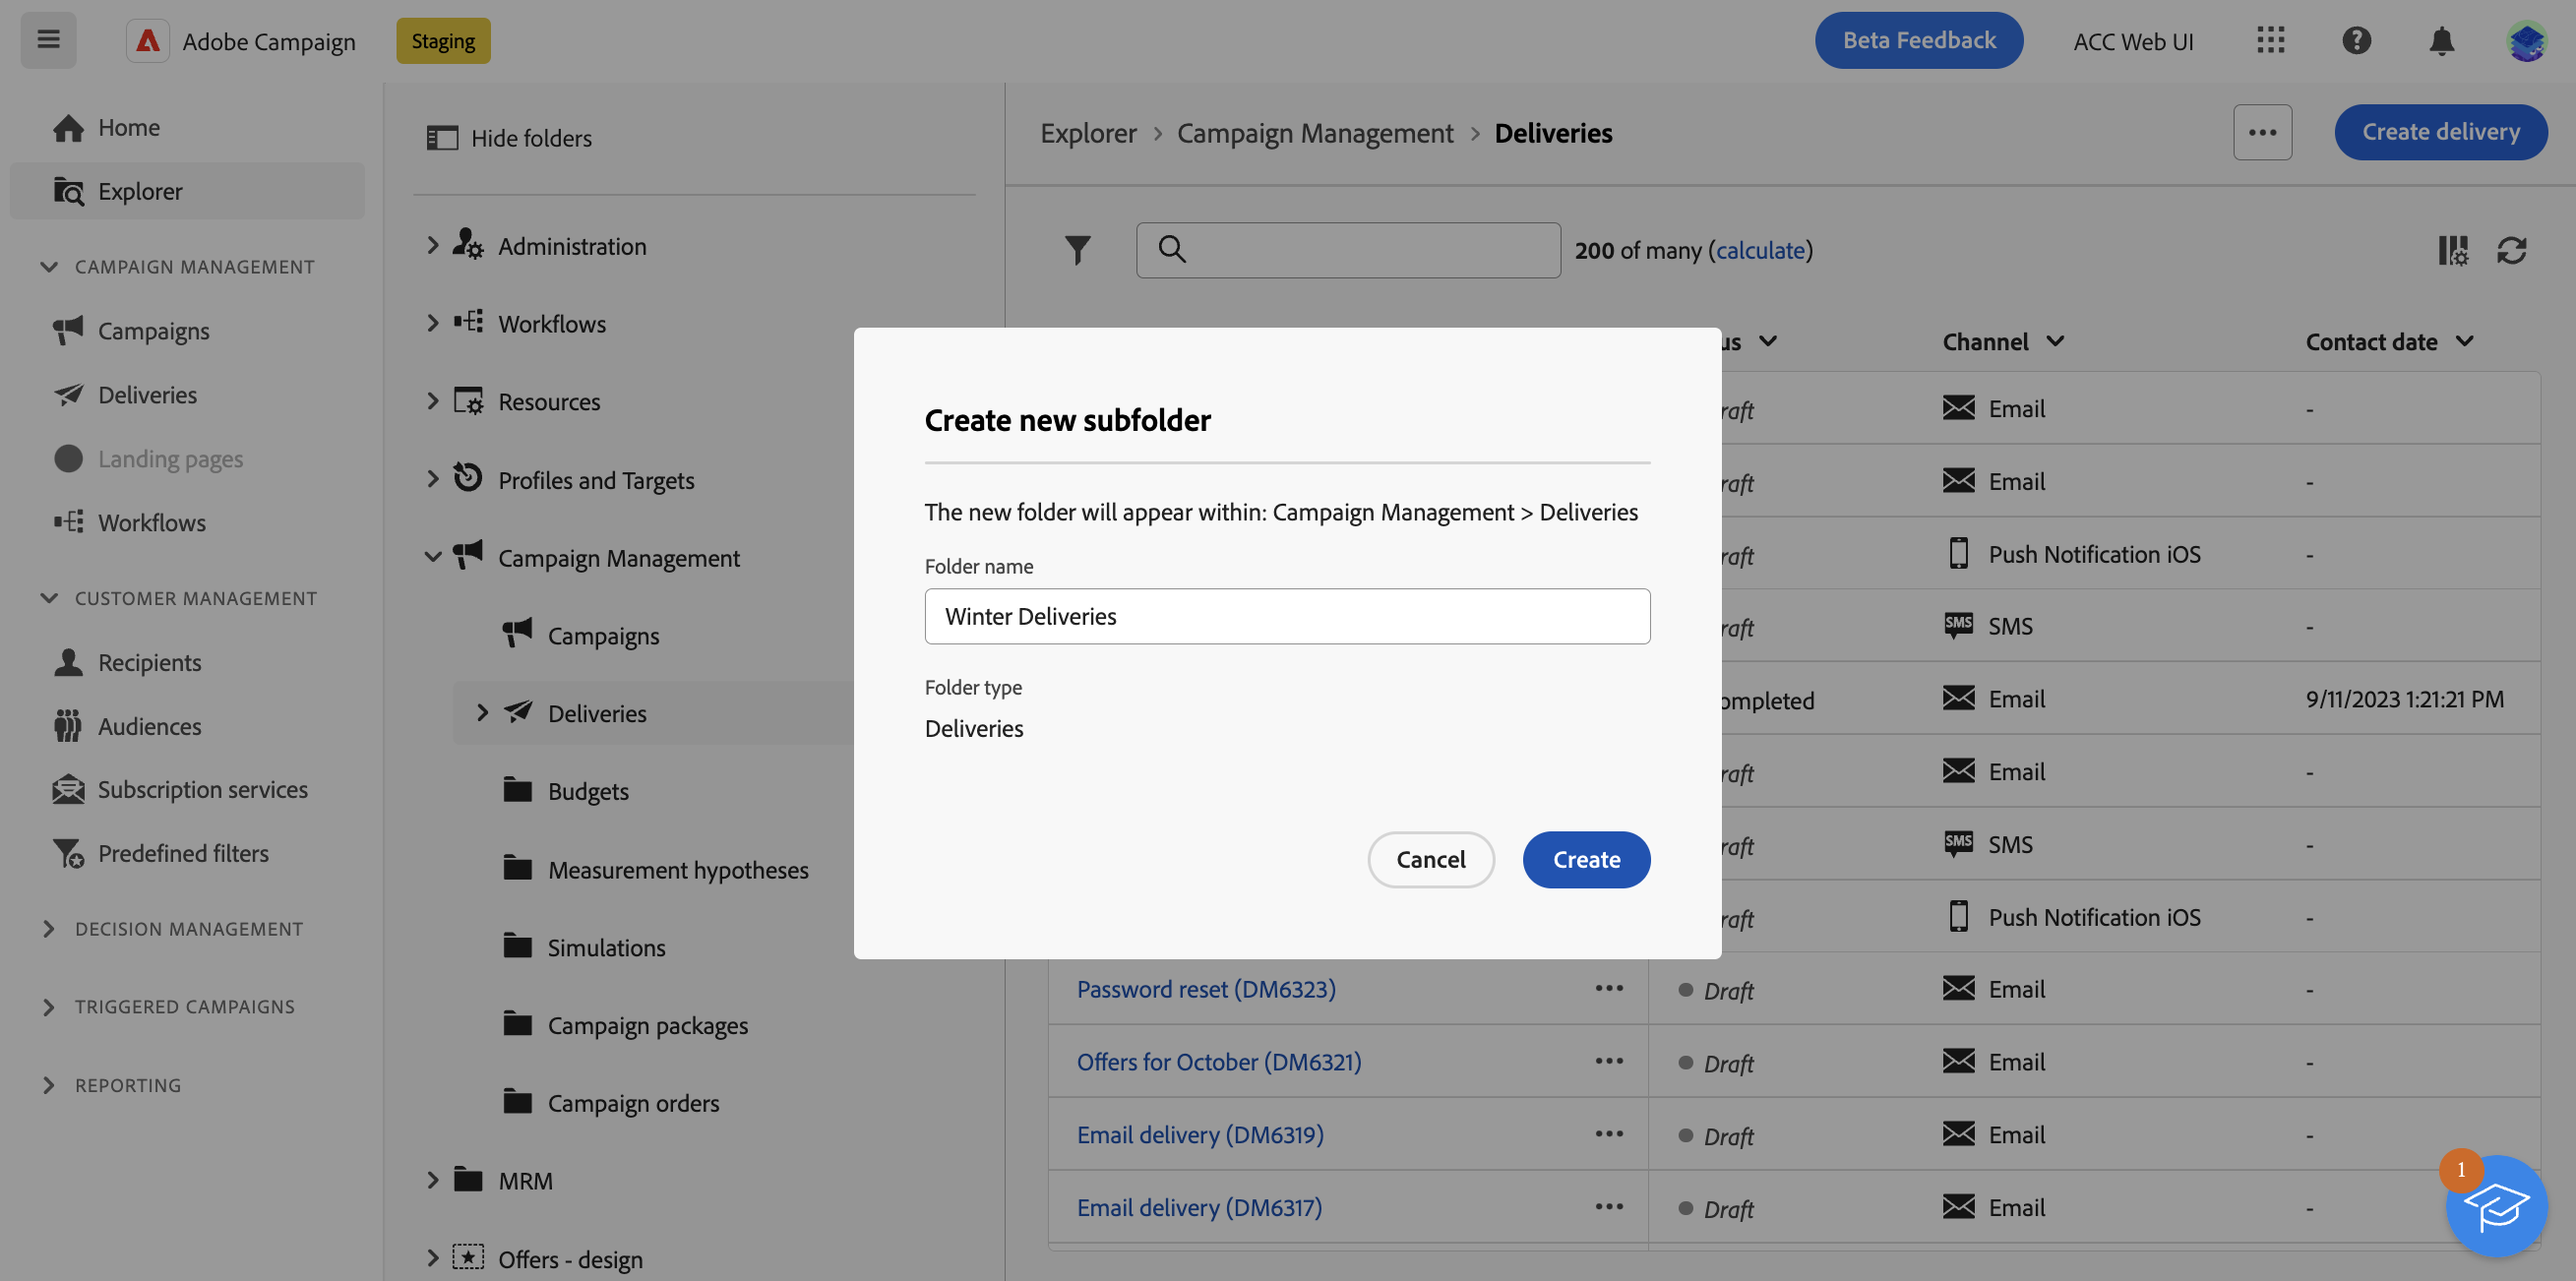
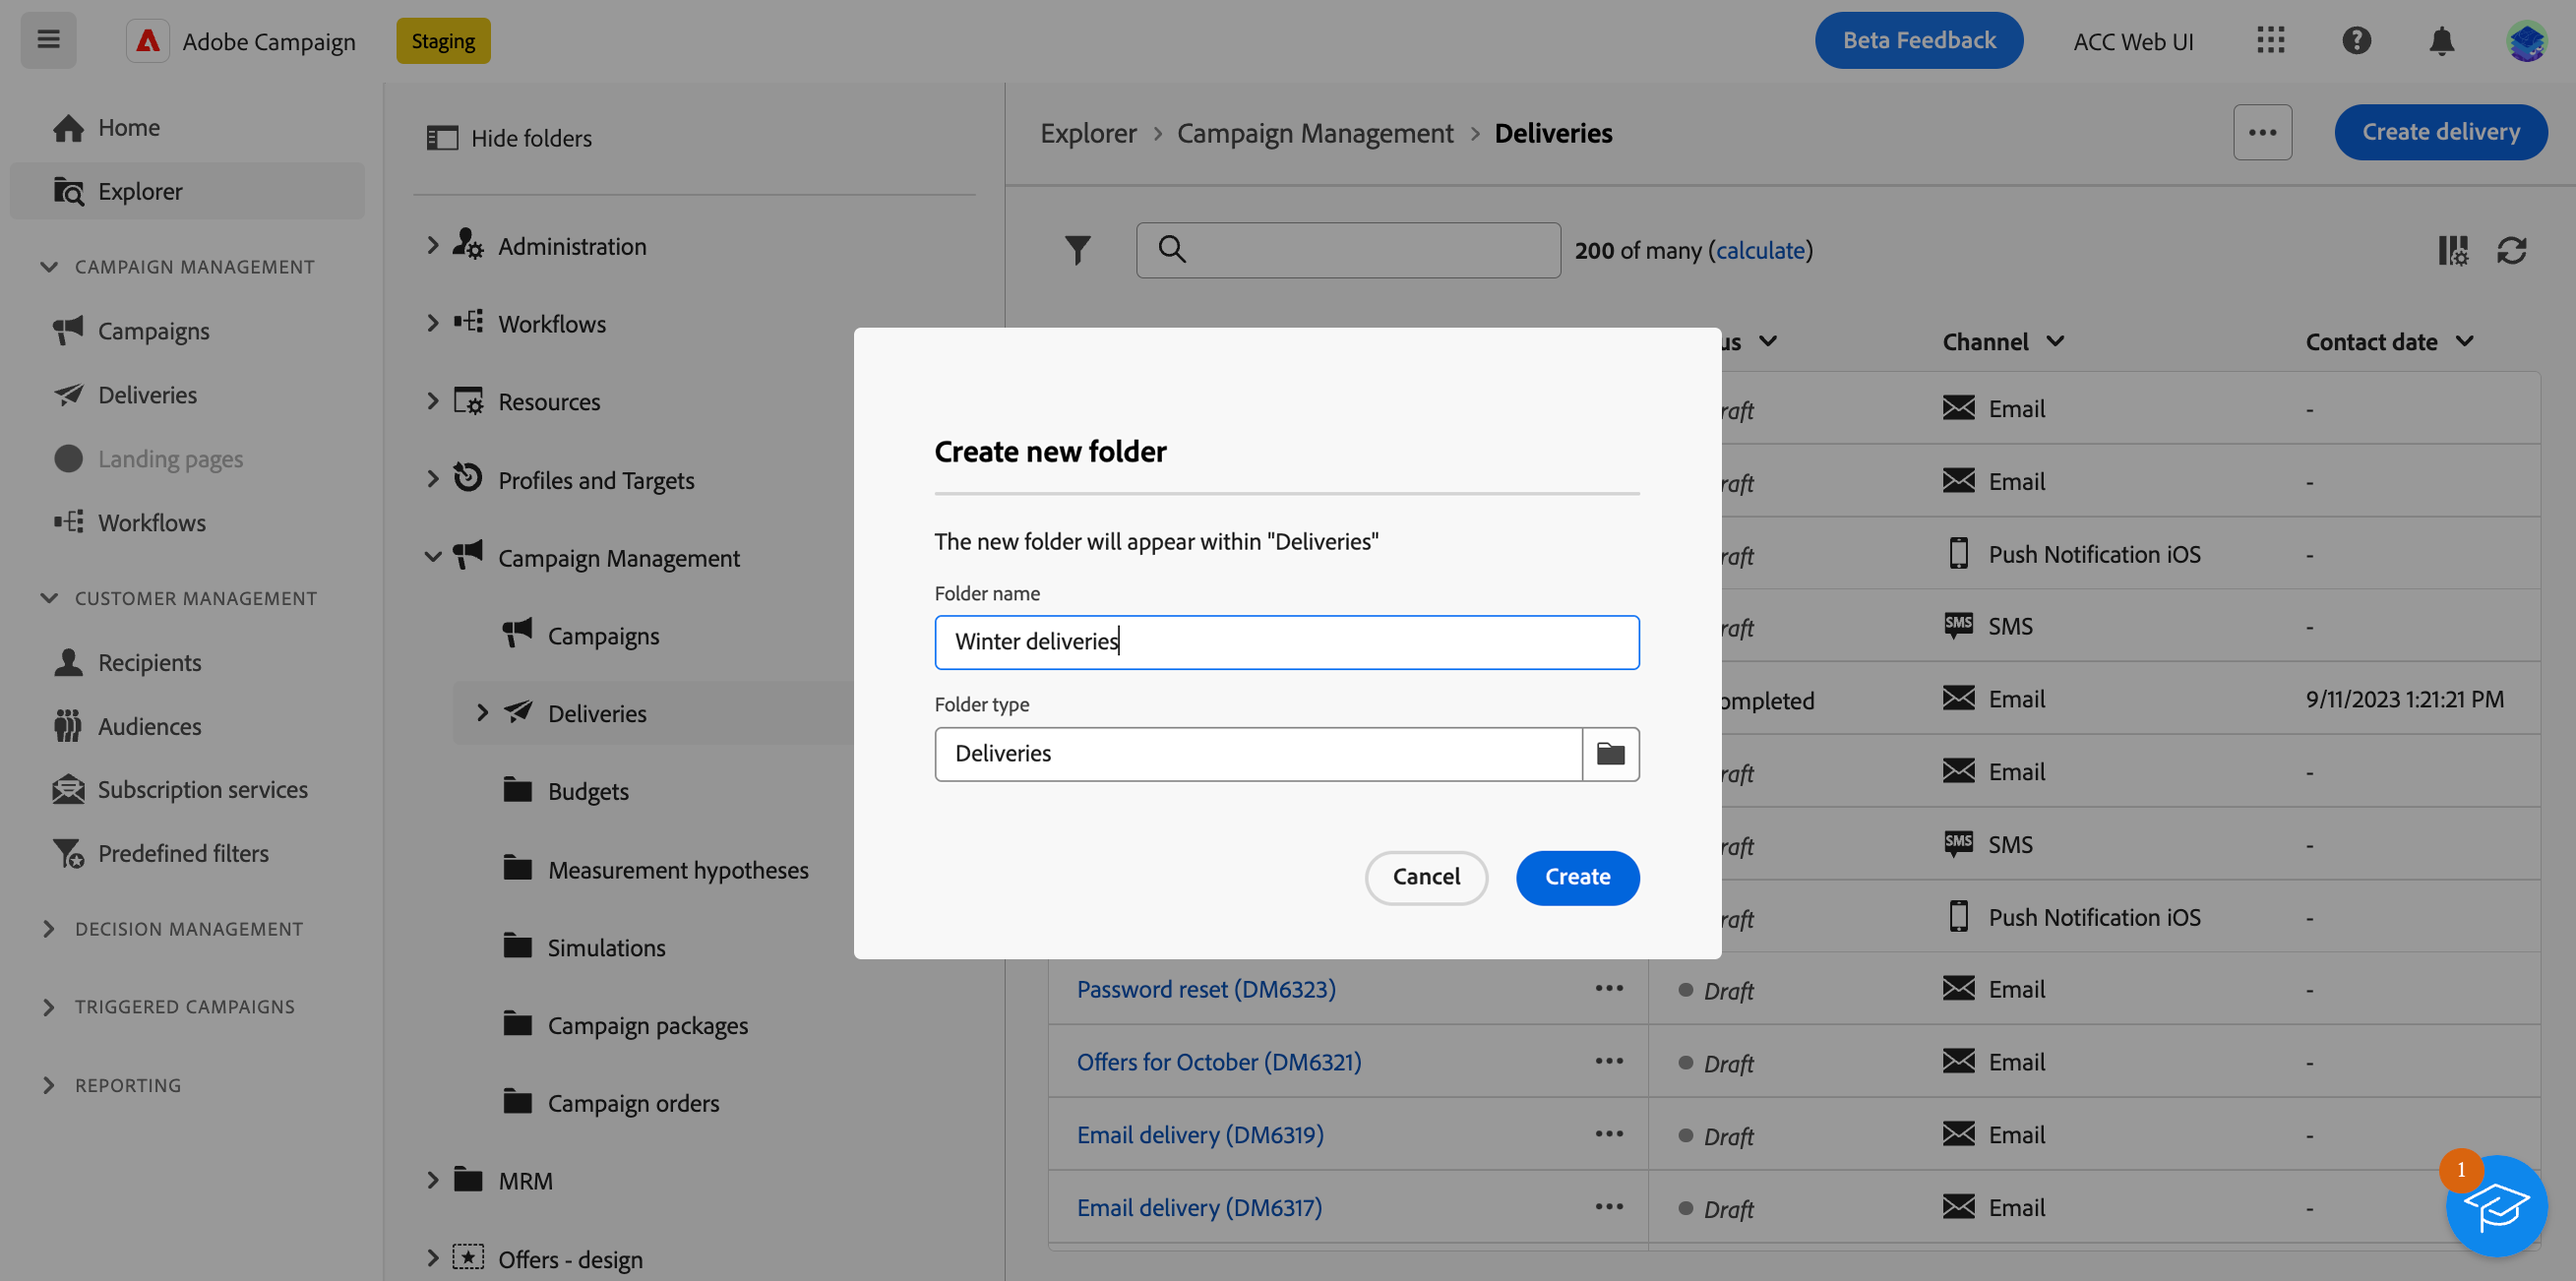
add info on folder DOCAC-10000

diff --git a/help/v8/get-started/permissions.md b/help/v8/get-started/permissions.md
@@ -85,10 +85,16 @@ You can create, rename, reorder, and move folders to organize your components an
 To create a folder, follow these steps:
 
 1. From the **Explorer** left nav menu, select a folder.
-1. Click the three dots on the upper right corner and choose **Create new subfolder**.
-1. Enter the name of the folder and save. 
+1. Click the three dots on the upper right corner and choose **Create new folder**.
+1. Enter the name of the folder.
 
     ![](assets/create-new-subfolder.png){zoomable="yes"}{width="70%" align="left" zoomable="yes"}
+
+1. Select the folder type. By default, the parent folder type is selected, "Deliveries", in our example. To change the folder type, click the folder icon and select any other type.
+
+    ![](assets/create-new-subfolder2.png){zoomable="yes"}{width="70%" align="left" zoomable="yes"}
+
+1. Click **Create**.
 
     The folder is added as a subfolder of the current folder. Browse to that new folder to create components directly into it. You can also create a component from any folder, and save it in that new folder, from the **Additional Options** section of the properties, as shown below for a delivery:
 
